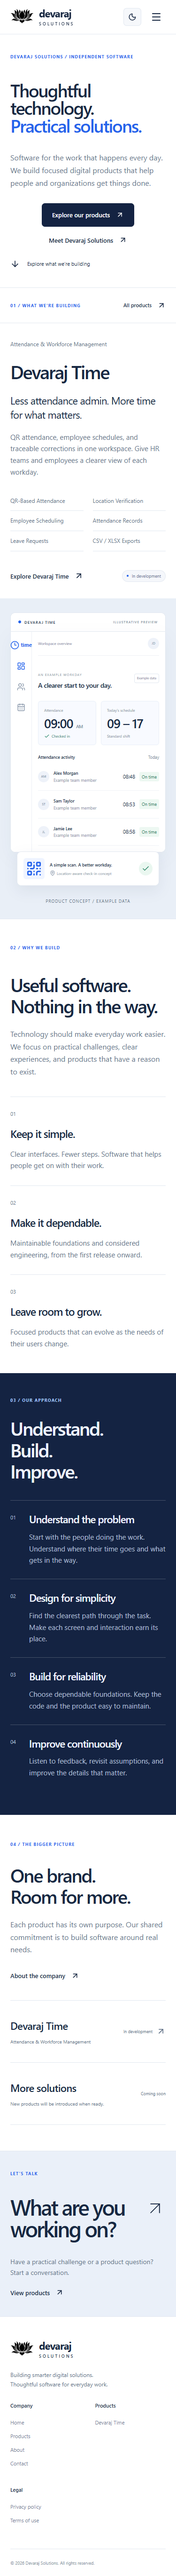
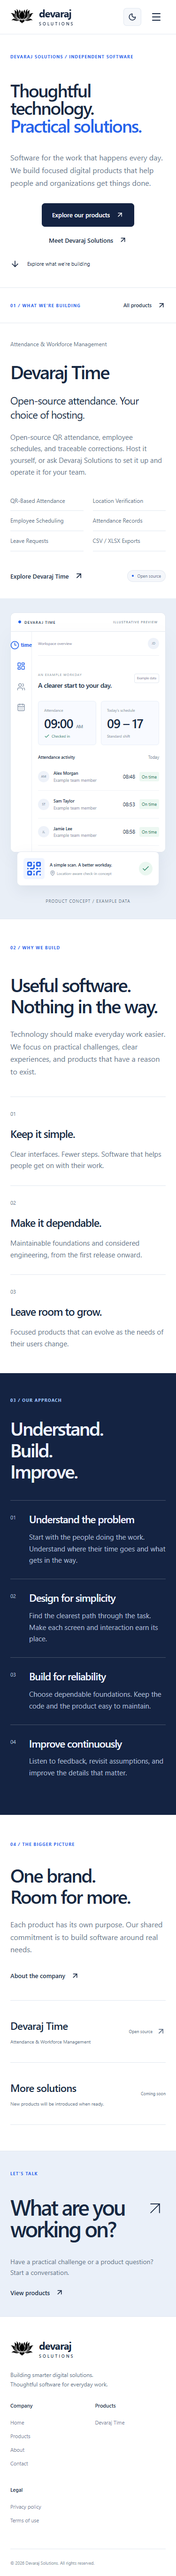
Offer open-source self-hosting and paid setup services

Changed region(s): [[0.0587, 0.1561, 0.8213, 0.1874]]

diff --git a/src/app/products/[slug]/page.tsx b/src/app/products/[slug]/page.tsx
@@ -20,17 +20,18 @@ export default async function Page({ params }: { params: Promise<{ slug: string 
   return <div className="product-landing">
     <section className="container section product-hero">
       <div><Link className="back-link" href="/products">← All products</Link><span className="eyebrow">{product.name.toUpperCase()} · {statusLabel[product.status]}</span><h1>{product.headline}</h1><p>{product.description}</p>
-        <div className="actions">{product.externalUrl ? <a className="button" href={product.externalUrl} target="_blank" rel="noopener noreferrer">Visit {product.name} <ArrowUpRight size={18} /></a> : <Button href={'/contact?product=' + product.id}>Discuss access</Button>}<Button href="#features" secondary>Explore features</Button></div>
+        <div className="actions">{product.sourceUrl && <a className="button" href={product.sourceUrl} target="_blank" rel="noopener noreferrer">Get source code <ArrowUpRight size={18}/></a>}{product.externalUrl ? <a className="button" href={product.externalUrl} target="_blank" rel="noopener noreferrer">Visit {product.name} <ArrowUpRight size={18} /></a> : <Button href="#hosting-options" secondary>Setup & hosting options</Button>}<Button href="#features" secondary>Explore features</Button></div>
         <p className="ownership">A product by <Link href="/">Devaraj Solutions.</Link></p>
       </div>{product.id === 'time' && <Preview />}
     </section>
-    {product.releaseNote && <div className="container"><p className="notice">Product preview: {product.releaseNote}</p></div>}
+    {product.releaseNote && <div className="container"><p className="notice">Source release: {product.releaseNote}</p></div>}
+    {product.services && <section id="hosting-options" className="soft-section"><div className="container section"><span className="eyebrow">{product.license}-LICENSED SOFTWARE / OPTIONAL PAID SERVICES</span><h2>Run it your way.</h2><p className="service-intro">The software is free to use under its open-source license. Choose to self-host, pay for setup on your infrastructure, or arrange hosting with us.</p><div className="service-options">{product.services.map(service => <article key={service.title}><h3>{service.title}</h3><p>{service.text}</p>{service.href.startsWith('https://') ? <a className="text-link" href={service.href} target="_blank" rel="noopener noreferrer">{service.action}<ArrowUpRight size={18}/></a> : <Link className="text-link" href={service.href}>{service.action}<ArrowUpRight size={18}/></Link>}</article>)}</div><p className="service-pricing">Setup, hosting, and support are paid services quoted separately. Pricing depends on your infrastructure, deployment scope, and support needs. No fixed prices or service-level guarantees are published.</p></div></section>}
     {product.audience && <section className="container section landing-audience" id="who-its-for"><div className="landing-section-heading"><span className="eyebrow">WHO IT’S FOR</span><h2>One workday.<br />Different responsibilities.</h2></div><div className="landing-rows">{product.audience.map((item, index) => <article key={item.title}><span className="home-index">0{index + 1}</span><div><h3>{item.title}</h3><p>{item.text}</p></div></article>)}</div></section>}
     {product.benefits && <section className="soft-section"><div className="container section"><div className="landing-section-heading"><span className="eyebrow">WHY USE {product.name.toUpperCase()}?</span><h2>Spend less time piecing<br />the workday together.</h2></div><div className="landing-benefits">{product.benefits.map((item, index) => <article key={item.title}><span className="home-index">0{index + 1}</span><h3>{item.title}</h3><p>{item.text}</p></article>)}</div></div></section>}
     {product.id === 'time' && <section className="container section landing-screens"><span className="eyebrow">INSIDE THE APPLICATION</span><h2>See the workflow.</h2><p>Application screenshots from the documented development environment. Example account and workplace information is shown; these are not live customer records.</p><div className="landing-screen-grid"><figure><Image src="/images/devaraj-time/qr-management.png" alt="Devaraj Time QR code management screen with a configured workplace attendance point" width={1025} height={871} sizes="(max-width: 760px) 90vw, 65vw"/><figcaption>Administrators create and manage workplace QR points.</figcaption></figure><figure><Image src="/images/devaraj-time/mobile-scanner.png" alt="Mobile attendance screen showing QR scanning, location verification, and action confirmation" width={374} height={1400} sizes="(max-width: 760px) 85vw, 25vw"/><figcaption>Employees scan, verify their location, and confirm attendance.</figcaption></figure></div></section>}
     <section id="features" className="container section"><div className="landing-section-heading"><span className="eyebrow">WHAT IT SUPPORTS</span><h2>The core attendance workflow.</h2></div><div className="landing-feature-rows">{product.details.map(item => <article key={item.title}><h3>{item.title}</h3><p>{item.text}</p></article>)}</div></section>
     <section className="soft-section"><div className="container section"><span className="eyebrow">HOW IT WORKS</span><h2>From setup to a clearer record.</h2><div className="steps three">{product.steps.map((step, index) => <article key={step.title}><span>0{index + 1}</span><h3>{step.title}</h3><p>{step.text}</p></article>)}</div></div></section>
     {product.limitations && <section className="container section landing-scope"><div><span className="eyebrow">BEFORE YOU GET STARTED</span><h2>Know the current scope.</h2><p>Choose a product with a clear understanding of what it supports today.</p></div><ul>{product.limitations.map(item => <li key={item}>{item}</li>)}</ul></section>}
-    <section className="home-contact"><div className="container"><span className="eyebrow">THE NEXT STEP</span><h2>Bring your attendance<br />workflow into focus.</h2><div className="actions">{product.externalUrl && <a className="button" href={product.externalUrl} target="_blank" rel="noopener noreferrer">Visit {product.name} <ArrowUpRight size={18} /></a>}<Button href={'/contact?product=' + product.id} secondary>Discuss your requirements</Button></div><p className="landing-access-note">Company access is provisioned by an administrator. Public self-registration is not available.</p></div></section>
+    <section className="home-contact"><div className="container"><span className="eyebrow">THE NEXT STEP</span><h2>Bring your attendance<br />workflow into focus.</h2><div className="actions">{product.externalUrl && <a className="button" href={product.externalUrl} target="_blank" rel="noopener noreferrer">Visit {product.name} <ArrowUpRight size={18} /></a>}<Button href={'/contact?product=' + product.id} secondary>Discuss your requirements</Button></div><p className="landing-access-note">Self-hosted access is configured by your administrator. Paid setup and hosting are arranged after a quote; public instant signup is not available.</p></div></section>
   </div>;
 }

diff --git a/src/data/products.ts b/src/data/products.ts
@@ -1,8 +1,9 @@
 import { config } from '@/lib/config';
-export type ProductStatus = 'available' | 'in-development' | 'coming-soon';
+export type ProductStatus = 'available' | 'in-development' | 'coming-soon' | 'source-available';
 export interface Product {
   id: string; slug: string; name: string; category: string; summary: string;
   description: string; features: string[]; status: ProductStatus;
+  sourceUrl?: string; license?: string; services?: { title: string; text: string; action: string; href: string }[];
   externalUrl?: string; featured: boolean; headline: string;
   details: { title: string; text: string }[];
   steps: { title: string; text: string }[];
@@ -14,11 +15,17 @@ export interface Product {
 export const products: Product[] = [{
   id: 'time', slug: 'devaraj-time', name: 'Devaraj Time',
   category: 'Attendance & Workforce Management',
-  summary: 'Less attendance admin. More time for what matters.',
-  description: 'QR attendance, employee schedules, and traceable corrections in one workspace. Give HR teams and employees a clearer view of each workday.',
+  summary: 'Open-source attendance. Your choice of hosting.',
+  description: 'Open-source QR attendance, employee schedules, and traceable corrections. Host it yourself, or ask Devaraj Solutions to set it up and operate it for your team.',
   features: ['QR-Based Attendance', 'Location Verification', 'Employee Scheduling', 'Attendance Records', 'Leave Requests', 'CSV / XLSX Exports'],
-  status: config.timeUrl && process.env.DEVARAJ_TIME_AVAILABLE === 'true' ? 'available' : 'in-development',
+  status: config.timeUrl && process.env.DEVARAJ_TIME_AVAILABLE === 'true' ? 'available' : 'source-available',
   externalUrl: config.timeUrl, featured: true,
+  sourceUrl: 'https://github.com/khemerak/Devaraj-Time', license: 'MIT',
+  services: [
+    { title: 'Host it yourself', text: 'Use the MIT-licensed source at no software license cost. You manage your server, credentials, updates, backups, and employee data.', action: 'Read the deployment guide', href: 'https://github.com/khemerak/Devaraj-Time/blob/main/docs/deployment.md' },
+    { title: 'Let us set it up', text: 'We help deploy and configure Devaraj Time on your infrastructure, with scope, handover, and support agreed before work starts.', action: 'Request a setup quote', href: '/contact?product=time&service=setup' },
+    { title: 'Let us host it', text: 'Ask us to operate the application for your team. Hosting, maintenance, backups, and support responsibilities are agreed in a separate service arrangement.', action: 'Request a hosting quote', href: '/contact?product=time&service=hosting' },
+  ],
   headline: 'Smarter attendance. Fairer workplaces.',
   audience: [
     { title: 'Organizations with workplace-based teams', text: 'Manage attendance across configured workplaces, branches, and departments, with schedules that reflect how your team works.' },
@@ -32,7 +39,7 @@ export const products: Product[] = [{
     { title: 'Corrections with context', text: 'Requests and approval decisions create a traceable path from the original attendance event to an adjusted summary.' },
     { title: 'Workplace rules in one place', text: 'Configure schedules and location checks, then review attendance summaries and export them for further analysis.' },
   ],
-  releaseNote: 'The application implements the core workflows described here. A public production deployment has not been verified; the hero preview is illustrative, and the application screenshots below use development example data.',
+  releaseNote: 'The MIT-licensed source is available on GitHub. Setup and hosting are offered by arrangement; there is no instant hosted signup. Review the current limitations before production use. The hero preview is illustrative, and screenshots use development example data.',
   details: [
     { title: 'QR attendance', text: 'Use permanent workplace QR points for check-in and check-out. The application also supports break events and employee attendance history.' },
     { title: 'Location-aware verification', text: 'Configure workplace coordinates, a geofence radius, and location accuracy requirements. Browser GPS and QR images can be fabricated; these checks are not fraud-proof.' },
@@ -53,4 +60,4 @@ export const products: Product[] = [{
     'Deployment, mobile camera/location behavior, security, and applicable privacy requirements need production review before adoption.',
   ],
 }];
-export const statusLabel = { available: 'Available', 'in-development': 'In development', 'coming-soon': 'Coming soon' };
+export const statusLabel = { available: 'Available', 'in-development': 'In development', 'coming-soon': 'Coming soon', 'source-available': 'Open source' };

diff --git a/src/components/contact-form.tsx b/src/components/contact-form.tsx
@@ -1,1 +1,1 @@
-'use client';import {useState} from 'react';import {products} from '@/data/products';export default function ContactForm({ready,initialProduct='general'}:{ready:boolean;initialProduct?:string}){const [state,setState]=useState('');const [busy,setBusy]=useState(false);async function submit(e:React.FormEvent<HTMLFormElement>){e.preventDefault();setBusy(true);setState('');try{const data=Object.fromEntries(new FormData(e.currentTarget));const response=await fetch('/api/contact',{method:'POST',headers:{'Content-Type':'application/json'},body:JSON.stringify(data)});const result=await response.json();setState(result.message);}catch{setState('Delivery could not be confirmed. Please try again later.');}finally{setBusy(false);}}return <form className="contact-form" onSubmit={submit}><h2>Let’s talk about your next step.</h2>{!ready&&<p className="notice">Online inquiries are currently unavailable. This form will open when email delivery is configured.</p>}<fieldset disabled={!ready||busy}><div className="form-grid"><label>Full name<input required name="name" autoComplete="name" maxLength={100}/></label><label>Email address<input required type="email" name="email" autoComplete="email" maxLength={254}/></label><label>Company / organization <small>(optional)</small><input name="company" autoComplete="organization" maxLength={150}/></label><label>Interested product<select name="product" defaultValue={initialProduct}><option value="general">General inquiry</option>{products.map(p=><option key={p.id} value={p.id}>{p.name}</option>)}</select></label></div><label>Subject<input required name="subject" maxLength={200}/></label><label>Message<textarea required name="message" minLength={10} maxLength={5000} rows={6}/></label><label className="honeypot" aria-hidden="true">Website<input name="website" tabIndex={-1} autoComplete="off"/></label><button className="button" type="submit">{busy?'Sending…':'Send inquiry ↗'}</button></fieldset><p role="status" aria-live="polite">{state}</p><small>By submitting, you agree to the handling of your inquiry described in our <a href="/privacy">privacy policy</a>.</small></form>}
+'use client';import {useState} from 'react';import {products} from '@/data/products';export default function ContactForm({ready,initialProduct='general',initialSubject=''}:{ready:boolean;initialProduct?:string;initialSubject?:string}){const [state,setState]=useState('');const [busy,setBusy]=useState(false);async function submit(e:React.FormEvent<HTMLFormElement>){e.preventDefault();setBusy(true);setState('');try{const data=Object.fromEntries(new FormData(e.currentTarget));const response=await fetch('/api/contact',{method:'POST',headers:{'Content-Type':'application/json'},body:JSON.stringify(data)});const result=await response.json();setState(result.message);}catch{setState('Delivery could not be confirmed. Please try again later.');}finally{setBusy(false);}}return <form className="contact-form" onSubmit={submit}><h2>Let’s talk about your next step.</h2>{!ready&&<p className="notice">The online form is currently unavailable. Please use the email, Telegram, or phone links on this page to contact us directly.</p>}<fieldset disabled={!ready||busy}><div className="form-grid"><label>Full name<input required name="name" autoComplete="name" maxLength={100}/></label><label>Email address<input required type="email" name="email" autoComplete="email" maxLength={254}/></label><label>Company / organization <small>(optional)</small><input name="company" autoComplete="organization" maxLength={150}/></label><label>Interested product<select name="product" defaultValue={initialProduct}><option value="general">General inquiry</option>{products.map(p=><option key={p.id} value={p.id}>{p.name}</option>)}</select></label></div><label>Subject<input required name="subject" maxLength={200} defaultValue={initialSubject}/></label><label>Message<textarea required name="message" minLength={10} maxLength={5000} rows={6}/></label><label className="honeypot" aria-hidden="true">Website<input name="website" tabIndex={-1} autoComplete="off"/></label><button className="button" type="submit">{busy?'Sending…':'Send inquiry ↗'}</button></fieldset><p role="status" aria-live="polite">{state}</p><small>By submitting, you agree to the handling of your inquiry described in our <a href="/privacy">privacy policy</a>.</small></form>}

diff --git a/tests/site.spec.ts b/tests/site.spec.ts
@@ -1,4 +1,4 @@
 import {test,expect} from '@playwright/test';
-test('navigation, product links, unavailable contact, unknown slug, and SEO',async({page})=>{await page.goto('/');await expect(page.getByRole('heading',{level:1})).toContainText('Thoughtful technology');await page.getByRole('link',{name:'Explore our products',exact:true}).click();await expect(page).toHaveURL(/\/products$/);await page.getByRole('link',{name:'Explore Devaraj Time',exact:true}).click();await expect(page).toHaveURL(/devaraj-time$/);await expect(page.getByText('Product preview:',{exact:false})).toBeVisible();await expect(page.getByRole('link',{name:'Visit Devaraj Time'})).toHaveCount(0);await page.goto('/contact');await expect(page.getByRole('button',{name:'Send inquiry'})).toBeDisabled();await expect(page.locator('select[name=product] option')).toHaveCount(2);await page.goto('/products/unknown');await expect(page.getByRole('heading',{name:'A little off the path.'})).toBeVisible();for(const route of ['/about','/privacy','/terms','/products','/products/devaraj-time']){const response=await page.goto(route);expect(response?.status()).toBe(200);await expect(page.locator('h1')).toHaveCount(1);await expect(page.locator('meta[name=description]')).toHaveAttribute('content',/.+/);await expect(page.locator('meta[property="og:title"]')).toHaveAttribute('content',/.+/);}});
+test('navigation, product links, unavailable contact, unknown slug, and SEO',async({page})=>{await page.goto('/');await expect(page.getByRole('heading',{level:1})).toContainText('Thoughtful technology');await page.getByRole('link',{name:'Explore our products',exact:true}).click();await expect(page).toHaveURL(/\/products$/);await page.getByRole('link',{name:'Explore Devaraj Time',exact:true}).click();await expect(page).toHaveURL(/devaraj-time$/);await expect(page.getByText('Source release:',{exact:false})).toBeVisible();await expect(page.getByRole('link',{name:'Visit Devaraj Time'})).toHaveCount(0);await page.goto('/contact');await expect(page.getByRole('button',{name:'Send inquiry'})).toBeDisabled();await expect(page.locator('select[name=product] option')).toHaveCount(2);await page.goto('/products/unknown');await expect(page.getByRole('heading',{name:'A little off the path.'})).toBeVisible();for(const route of ['/about','/privacy','/terms','/products','/products/devaraj-time']){const response=await page.goto(route);expect(response?.status()).toBe(200);await expect(page.locator('h1')).toHaveCount(1);await expect(page.locator('meta[name=description]')).toHaveAttribute('content',/.+/);await expect(page.locator('meta[property="og:title"]')).toHaveAttribute('content',/.+/);}});
 test('responsive layout and keyboard navigation',async({page})=>{for(const width of [375,768,1440]){await page.setViewportSize({width,height:900});await page.goto('/');expect(await page.evaluate(()=>document.documentElement.scrollWidth<=window.innerWidth)).toBe(true);if(width===375){await page.getByRole('button',{name:'Open navigation'}).click();await page.getByRole('navigation',{name:'Mobile navigation'}).getByRole('link',{name:'About'}).click();await expect(page).toHaveURL(/\/about$/);}}await page.goto('/');await page.keyboard.press('Tab');await expect(page.getByRole('link',{name:'Skip to content'})).toBeFocused();});
 test('unconfigured endpoint and SEO do not pretend to be live',async({request})=>{const contact=await request.post('/api/contact',{data:{name:'Example'}});expect(contact.status()).toBe(503);const robots=await request.get('/robots.txt');expect(await robots.text()).toContain('Disallow: /');const sitemap=await request.get('/sitemap.xml');expect(await sitemap.text()).not.toContain('devarajsolutions.com');});

diff --git a/src/app/contact/page.tsx b/src/app/contact/page.tsx
@@ -1,2 +1,2 @@
 import { products } from '@/data/products';
-import ContactForm from '@/components/contact-form';import {config} from '@/lib/config';import {Intro} from '@/components/ui';import {metadata as m} from '@/lib/metadata';export const dynamic="force-dynamic";export const metadata=m('Contact','Get in touch about Devaraj Solutions, our products, and business inquiries.','/contact');export default async function Page({searchParams}:{searchParams:Promise<{product?:string}>}){const query=await searchParams;const initialProduct=products.some(p=>p.id===query.product)?query.product:'general';return <section className="container section"><Intro eyebrow="GET IN TOUCH" title="Start a conversation." text="Have a product question or a practical challenge to explore? We’d like to hear about it."/><div className="contact-layout"><div><span className="eyebrow">BUSINESS & PRODUCT INQUIRIES</span><h2>Good ideas begin<br/>with a conversation.</h2><p>Tell us what you’re working on and how our products might help.</p>{config.email&&<a className="text-link" href={'mailto:'+config.email}>{config.email} ↗</a>}<p className="muted">For product questions, select the relevant product so your inquiry has the right context.</p></div><ContactForm ready={config.contactReady} initialProduct={initialProduct}/></div></section>}
+import ContactForm from '@/components/contact-form';import {config} from '@/lib/config';import {Intro} from '@/components/ui';import {metadata as m} from '@/lib/metadata';export const dynamic="force-dynamic";export const metadata=m('Contact','Get in touch about Devaraj Solutions, our products, and business inquiries.','/contact');export default async function Page({searchParams}:{searchParams:Promise<{product?:string;service?:string}>}){const query=await searchParams;const initialProduct=products.some(p=>p.id===query.product)?query.product:'general';const initialSubject=initialProduct==='time'&&query.service==='setup'?'Devaraj Time setup quote':initialProduct==='time'&&query.service==='hosting'?'Devaraj Time hosting quote':'';return <section className="container section"><Intro eyebrow="GET IN TOUCH" title="Start a conversation." text="Have a product question or a practical challenge to explore? We’d like to hear about it."/><div className="contact-layout"><div><span className="eyebrow">BUSINESS & PRODUCT INQUIRIES</span><h2>Good ideas begin<br/>with a conversation.</h2><p>Tell us what you’re working on and how our products might help.</p><div className="contact-channels"><a className="text-link" href={'mailto:'+config.email+'?subject='+encodeURIComponent(initialSubject || 'Devaraj Solutions inquiry')}>Email: {config.email} ↗</a><a className="text-link" href={config.telegramUrl} target="_blank" rel="noopener noreferrer">Telegram: @pavkhemerak ↗</a><a className="text-link" href={'tel:'+config.phone}>Phone: {config.phone}</a></div><p className="muted">For a setup or hosting quote, share your team size, infrastructure, intended domain, and support needs. Scope and price are agreed before work starts.</p><p className="muted">For product questions, select the relevant product so your inquiry has the right context.</p></div><ContactForm ready={config.contactReady} initialProduct={initialProduct} initialSubject={initialSubject}/></div></section>}

diff --git a/src/components/product-card.tsx b/src/components/product-card.tsx
@@ -1,1 +1,1 @@
-import Link from 'next/link'; import { ArrowUpRight, Check, Clock3 } from 'lucide-react'; import { Product, statusLabel } from '@/data/products'; import Preview from './preview'; export default function ProductCard({product:p}:{product:Product}){return <article className="product-card"><div className="product-info"><div className="product-kicker"><span className="product-icon"><Clock3/></span><span className="status"><span className="dot"/>{statusLabel[p.status]}</span></div><span className="eyebrow">{p.category}</span><h3>{p.name}</h3><p>{p.description}</p><div className="feature-list">{p.features.map(f=><span key={f}><Check size={14}/>{f}</span>)}</div><Link className="text-link" href={'/products/'+p.slug}>Explore {p.name}<ArrowUpRight size={18}/></Link>{p.externalUrl&&<a className="external-link" href={p.externalUrl} target="_blank" rel="noopener noreferrer">Visit product website ↗</a>}</div><div className="product-visual">{p.id==='time'?<Preview/>:<div className="future-symbol">{p.name}</div>}</div></article>}
+import Link from 'next/link'; import { ArrowUpRight, Check, Clock3 } from 'lucide-react'; import { Product, statusLabel } from '@/data/products'; import Preview from './preview'; export default function ProductCard({product:p}:{product:Product}){return <article className="product-card"><div className="product-info"><div className="product-kicker"><span className="product-icon"><Clock3/></span><span className="status"><span className="dot"/>{statusLabel[p.status]}</span></div><span className="eyebrow">{p.category}</span><h3>{p.name}</h3><p>{p.description}</p><div className="feature-list">{p.features.map(f=><span key={f}><Check size={14}/>{f}</span>)}</div><Link className="text-link" href={'/products/'+p.slug}>Explore {p.name}<ArrowUpRight size={18}/></Link>{p.sourceUrl&&<a className="external-link" href={p.sourceUrl} target="_blank" rel="noopener noreferrer">Source code · {p.license} license ↗</a>}{p.externalUrl&&<a className="external-link" href={p.externalUrl} target="_blank" rel="noopener noreferrer">Visit product website ↗</a>}</div><div className="product-visual">{p.id==='time'?<Preview/>:<div className="future-symbol">{p.name}</div>}</div></article>}

diff --git a/tests/services.spec.ts b/tests/services.spec.ts
@@ -1,0 +1,13 @@
+import {test,expect} from '@playwright/test';
+test('open source, self-host guide and separately quoted services',async({page})=>{
+ await page.goto('/products/devaraj-time');
+ await expect(page.getByRole('link',{name:'Get source code'})).toHaveAttribute('href','https://github.com/khemerak/Devaraj-Time');
+ await expect(page.getByRole('heading',{name:'Host it yourself'})).toBeVisible();
+ await expect(page.getByRole('heading',{name:'Let us set it up'})).toBeVisible();
+ await expect(page.getByRole('heading',{name:'Let us host it'})).toBeVisible();
+ await expect(page.getByRole('link',{name:'Read the deployment guide'})).toHaveAttribute('href',/docs\/deployment.md$/);
+ await page.getByRole('link',{name:'Request a setup quote'}).click();await expect(page.locator('select[name=product]')).toHaveValue('time');await expect(page.locator('input[name=subject]')).toHaveValue('Devaraj Time setup quote');
+ await page.goto('/products/devaraj-time');await page.getByRole('link',{name:'Request a hosting quote'}).click();await expect(page.locator('input[name=subject]')).toHaveValue('Devaraj Time hosting quote');
+});
+
+test('service inquiries have direct public contact channels',async({page})=>{await page.goto('/contact?product=time&service=setup');await expect(page.getByRole('link',{name:/Email: pavkhemerak.official/})).toHaveAttribute('href',/mailto:pavkhemerak.official@gmail.com.*Devaraj%20Time%20setup%20quote/);await expect(page.getByRole('link',{name:/Telegram:/})).toHaveAttribute('href','https://t.me/pavkhemerak');await expect(page.getByRole('link',{name:/Phone:/})).toHaveAttribute('href','tel:+85514945699');});

diff --git a/src/app/globals.css b/src/app/globals.css
@@ -256,3 +256,14 @@ html[data-theme='dark'] .home-contact { background: #172740; }
 .landing-screen-grid figcaption { color: var(--muted); font-size: 12px; margin-top: 14px; }
 .landing-screen-grid figure:last-child { max-width: 340px; justify-self: center; }
 @media(max-width:760px) { .landing-screen-grid { grid-template-columns: 1fr; gap: 35px; } }
+.service-intro { max-width: 760px; margin: 25px 0 40px; font-size: 17px; }
+.service-options { display: grid; grid-template-columns: repeat(3,1fr); gap: 45px; }
+.service-options article { display: flex; flex-direction: column; align-items: start; border-top: 1px solid var(--border); padding-top: 28px; }
+.service-options h3 { font-size: 30px; margin-bottom: 20px; }
+.service-options p { margin-bottom: 30px; max-width: 550px; }
+.service-options .text-link { margin-top: auto; }
+.service-pricing { margin-top: 45px; padding-top: 25px; border-top: 1px solid var(--border); font-size: 13px; max-width: 900px; }
+@media(max-width:760px) { .service-options { grid-template-columns: 1fr; gap: 35px; } }
+
+.contact-channels { display: flex; flex-direction: column; align-items: start; gap: 16px; margin-block: 28px; }
+.contact-channels a { overflow-wrap: anywhere; white-space: normal; }

diff --git a/src/lib/config.ts b/src/lib/config.ts
@@ -1,2 +1,2 @@
 export function httpUrl(value?: string) { if (!value) return undefined; try { const url = new URL(value); return ['http:', 'https:'].includes(url.protocol) ? url.toString().replace(/\/$/, '') : undefined; } catch { return undefined; } }
-export const config = { siteUrl: httpUrl(process.env.NEXT_PUBLIC_SITE_URL), timeUrl: httpUrl(process.env.NEXT_PUBLIC_DEVARAJ_TIME_URL), email: process.env.CONTACT_EMAIL, contactReady: Boolean(process.env.RESEND_API_KEY && process.env.CONTACT_FROM && process.env.CONTACT_TO && process.env.UPSTASH_REDIS_REST_URL && process.env.UPSTASH_REDIS_REST_TOKEN) };
+export const config = { siteUrl: httpUrl(process.env.NEXT_PUBLIC_SITE_URL), timeUrl: httpUrl(process.env.NEXT_PUBLIC_DEVARAJ_TIME_URL), email: process.env.CONTACT_EMAIL || 'pavkhemerak.official@gmail.com', phone: '+85514945699', telegramUrl: 'https://t.me/pavkhemerak', contactReady: Boolean(process.env.RESEND_API_KEY && process.env.CONTACT_FROM && process.env.CONTACT_TO && process.env.UPSTASH_REDIS_REST_URL && process.env.UPSTASH_REDIS_REST_TOKEN) };

diff --git a/README.md b/README.md
@@ -1,50 +1,89 @@
 # Devaraj Solutions
-Independent company website for the Devaraj Solutions product ecosystem. Devaraj Time remains a separate application and repository; this website never accesses its database.
 
-## Stack and setup
-Next.js App Router, TypeScript, React, Tailwind CSS, Lucide icons, and Motion. Node 24 recommended (Next.js requires at least Node 20.9).
+The official company website for Devaraj Solutions: practical digital products and services built around everyday work.
+
+**Website:** https://devarajsolutions.site
+**Devaraj Time showcase:** https://devarajsolutions.site/products/devaraj-time
+
+This website is independent of the Devaraj Time application. It does not share its database, login system, or deployment.
+
+## What is included
+
+- Responsive company, product, About, and Contact pages.
+- Light/dark themes with system preference detection and a saved theme switch.
+- A typed product catalog and reusable product detail route.
+- Devaraj Time source-code links, self-hosting guidance, and optional paid setup/hosting inquiries.
+- SEO metadata, sitemap, robots rules, and social-sharing artwork.
+- Editable legal drafts that require review before public launch.
+
+## Run locally
+
+Use Node.js 24 and npm. Install from the committed lockfile:
 
 ```sh
 npm ci
-cp .env.example .env.local
 npm run dev
 ```
-Open http://localhost:3000. Commands: `npm run typecheck`, `npm run lint`, `npm run build`, `npm start`, `npm test`, and `npx playwright test`.
+
+Open http://localhost:3000. No credentials are required to read the website. Optional local configuration belongs in an ignored `.env.local` file; no environment files or templates are distributed through Git.
 
 ## Configuration
-- `NEXT_PUBLIC_SITE_URL`: verified production origin. Without it canonical URLs and sitemap entries are omitted and indexing is disabled.
-- `NEXT_PUBLIC_DEVARAJ_TIME_URL`: actual product URL. Invalid/non-HTTP URLs are ignored; external links are hidden when unset.
-- `DEVARAJ_TIME_AVAILABLE`: set `true` only after verifying deployment and advertised capabilities. Defaults to in development.
-- `CONTACT_EMAIL`: optional public email contact.
-- `RESEND_API_KEY`, `CONTACT_FROM`, `CONTACT_TO`: server-only Resend delivery credentials. Verify t
-- he sender domain with the provider.
-- `UPSTASH_REDIS_REST_URL`, `UPSTASH_REDIS_REST_TOKEN`: server-only shared rate limiter. Delivery stays disabled unless all provider and rate-limit variables are supplied.
 
-Public URLs and product status are evaluated at build time. Contact availability is rendered dynamically using runtime configuration. Rebuild after configuration changes. Never place secrets in NEXT_PUBLIC variables. No social links are shown because none were supplied.
+Set production values in your hosting provider's environment settings. Rebuild after changing public URLs or product availability.
 
-## Architecture
-`src/app` holds routes and the contact endpoint; `src/components` holds reusable layout, product, and preview components; `src/data/products.ts` is the typed catalog; `src/lib` contains configuration, metadata, and validation. Product detail routes are generated from catalog data. See docs/adding-products.md.
+| Variable | Purpose |
+| --- | --- |
+| NEXT_PUBLIC_SITE_URL | Production website origin. Set to the verified company domain in Production only. Without it, indexing is disabled and production canonical/sitemap URLs are omitted. |
+| NEXT_PUBLIC_DEVARAJ_TIME_URL | Optional verified attendance application URL. Leave unset when offering source and services rather than a hosted application. |
+| DEVARAJ_TIME_AVAILABLE | Set true only after verifying a deployed application. Otherwise the catalog identifies the MIT-licensed source release. |
+| CONTACT_EMAIL | Optional override for the public service email. |
+| RESEND_API_KEY / CONTACT_FROM / CONTACT_TO | Server-only email delivery configuration. |
+| UPSTASH_REDIS_REST_URL / UPSTASH_REDIS_REST_TOKEN | Server-only shared rate limiting for online submissions. |
 
-Contact submissions use same-origin validation, byte-size and field limits, a honeypot, plain-text emails, and an atomic shared limit of five requests per ten minutes. Configure your ingress to overwrite x-forwarded-for; untrusted forwarded headers undermine per-IP limiting. Provider errors never produce a success message. Provider acceptance does not guarantee mailbox delivery.
+The online form is unavailable unless all delivery and rate-limit settings are supplied. Direct contact links remain available:
+
+- Email: [pavkhemerak.official@gmail.com](mailto:pavkhemerak.official@gmail.com)
+- Telegram: [@pavkhemerak](https://t.me/pavkhemerak)
+- Phone: +85514945699
+
+Only public configuration belongs in NEXT_PUBLIC variables. Keep environment files, provider tokens, private keys, and deployment credentials out of Git. For the contact API, configure trusted reverse-proxy IP headers as described in the architecture documentation.
+
+## Development checks
+
+```sh
+npm run lint
+npm run typecheck
+npm test
+npm run build
+npx playwright test
+```
+
+Browser tests use installed Chrome and a local production server. `npm start` serves the standalone build after `npm run build`. The project uses Webpack because the local Windows environment could not start Turbopack's CSS worker.
+
+## Project structure
+
+- `src/app`: pages, SEO routes, and the contact endpoint.
+- `src/components`: shared layout, theme controls, product previews, and forms.
+- `src/data/products.ts`: catalog, capabilities, audiences, benefits, source links, and service choices.
+- `src/lib`: configuration, metadata, and inquiry validation.
+- `public`: approved brand artwork and development-example product screenshots.
+- `tests`: validation and browser flows.
+- `docs`: architecture, deployment, product registration, and verification records.
+
+To add a product, follow [adding-products.md](docs/adding-products.md). No product database connection is required.
 
 ## Deployment
-Vercel: import this folder as the project root, set environment variables, and build with `npm run build`. Docker/Linux instructions are in docs/deployment.md. Deployment is intentionally not performed.
 
-## Known limitations / launch checklist
-No verified production URLs, email credentials, or social accounts were supplied. Preview data is illustrative, product capabilities are intended scope until verified, and legal pages require legal review. Establish inquiry retention and legal entity/jurisdiction details before launch. No claims of customers, performance metrics, or certifications are made. The UI uses local system fonts to avoid remote font dependencies. No actual product screenshots were supplied. Docker deployment and real email delivery require environment-specific verification. Light and dark themes are included, with system preference detection and a persistent header switch.
+Vercel imports this repository as a Next.js project with root `./` and build command `npm run build`. Keep the framework's default output setting. Set the production origin in Vercel and connect the domain using the exact DNS values it provides. See [Vercel launch instructions](docs/vercel-launch.md).
 
+Docker and Linux hosting are documented in [deployment.md](docs/deployment.md). Secrets are configured on the host and are excluded from image source contexts.
 
-## Verification notes
-The scripts use Next.js's supported Webpack path because Turbopack's CSS subprocess failed in this Windows environment. npm audit reported five high-severity findings in the development-only ESLint glob/braces dependency chain; the latest braces release remains 3.0.3 and no compatible upstream patch was available at implementation time. Production dependencies were clean at installation. Do not apply npm audit fix --force blindly: its proposed remedy downgrades the Next.js lint configuration to version 14.
+## Product and service model
 
-## Appearance
-The supplied transparent Devaraj Solutions logo is used in the header, footer, ecosystem, and browser icon. Its original PNG is retained at public/logos/devaraj-solutions.png. Dark mode renders the same black artwork in white through CSS, without changing the source asset.
+Devaraj Time is available under the MIT license in its [independent repository](https://github.com/khemerak/Devaraj-Time). Visitors may self-host without buying a service, request paid setup on their infrastructure, or arrange hosting with Devaraj Solutions. Prices, support scope, infrastructure costs, and operating responsibilities are agreed before work starts. No instant signup, checkout, published SLA, or fixed pricing is implied.
 
-The header theme switch persists a light/dark choice in localStorage. Until a choice is saved, the theme follows the operating system, including changes while the page is open. A small pre-paint script applies the preference to avoid a light flash. No account or cookies are needed.
+## Current limits
 
+Product screenshots show development examples, not customer records. Contact links work without an email provider, but the online submission endpoint needs configured delivery and rate limiting. Legal policies are drafts. Production application readiness and operating limits are documented in the product repository.
 
-## Layout
-The company pages use fluid viewport gutters instead of a fixed maximum content width. The homepage uses a large typographic opening, an edge-to-edge product showcase, and open editorial sections. The About page pairs its headline with introductory copy and uses open mission/vision columns. Legal text retains a reading-width limit. Both themes and the mobile layout share the same structure.
-
-## Product showcase
-`/products/devaraj-time` is the public Devaraj Time marketing destination. Product cards link here so visitors see audiences, documented capabilities, benefits, access requirements and current scope before entering the independent application. `NEXT_PUBLIC_DEVARAJ_TIME_URL` points to the verified application entry point; it is not required to read the showcase. Product inquiry links preselect the corresponding product in the contact form. Repository and hosting publication require the owner's real Git URL, domain and credentials.
+The last dependency audit reported five high-severity findings in the development-only Next.js ESLint glob/braces chain. Do not blindly apply a forced audit fix that downgrades the lint configuration. See [verification notes](docs/verification.md) for executed checks and their limits.

diff --git a/docs/verification.md b/docs/verification.md
@@ -18,3 +18,5 @@ Logo/theme update: supplied transparent artwork replaces the temporary mark. Lig
 Full-width redesign: build, lint, and TypeScript passed. All six browser checks passed (the wide-layout selector was corrected and that check rerun). Fluid content widths and overflow were checked at 375, 768, 1440, and 2560px. Updated homepage and About-page screenshots were visually reviewed in light and dark themes.
 
 Devaraj Time showcase: production build, lint and TypeScript passed; all seven Playwright checks passed. Audience/benefit/scope content, product-card navigation, product inquiry preselection, and product-page overflow at 375/1440px were verified. The showcase remains at /products/devaraj-time on the company website. Application screenshots use documented development examples; production app availability and hosting are not claimed.
+
+Open-source/services release: build, TypeScript, ESLint, 3 validation tests and all 9 browser checks passed. Source and deployment-guide links, self-host/setup/hosting choices, quote subject preselection, public email/Telegram/phone links, navigation, themes and responsive layouts were verified. Environment templates were removed from current Git tracking in both repositories; historical commits were not rewritten.

diff --git a/docs/vercel-launch.md b/docs/vercel-launch.md
@@ -12,7 +12,7 @@ NEXT_PUBLIC_SITE_URL=https://devarajsolutions.site
 
 Leave it unset for preview environments to keep previews non-indexable. Keep NEXT_PUBLIC_DEVARAJ_TIME_URL unset until the independent application is actually deployed, and keep DEVARAJ_TIME_AVAILABLE=false. Product cards already lead to the public /products/devaraj-time showcase.
 
-Contact delivery can be configured later using the server-only values in .env.example. Without them, the page honestly displays an unavailable state.
+Contact delivery can be configured later using the server-only settings documented in README.md. Without them, the page honestly displays an unavailable state.
 
 After the first successful deployment, add devarajsolutions.site and www.devarajsolutions.site in the project's Domains settings. Select devarajsolutions.site as primary and redirect www to it. Copy the exact project-specific A/CNAME/TXT values Vercel returns into Namecheap Advanced DNS when using Namecheap DNS. Replace only conflicting parking/redirect records for @/www; preserve unrelated email and verification records. No guessed DNS targets are stored in this repository.
 
